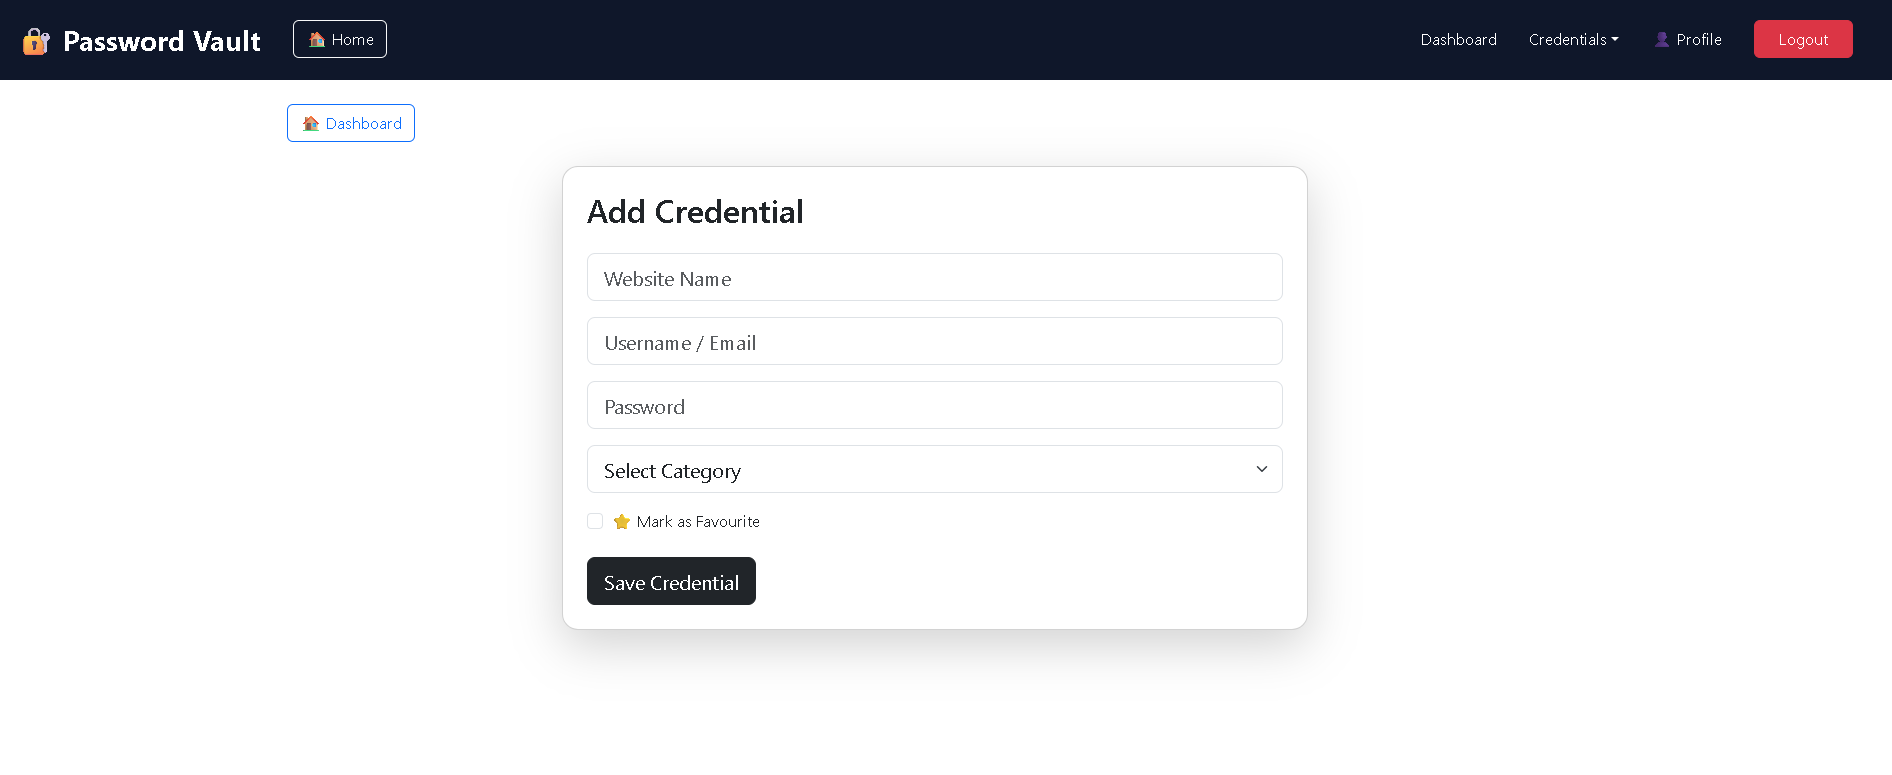
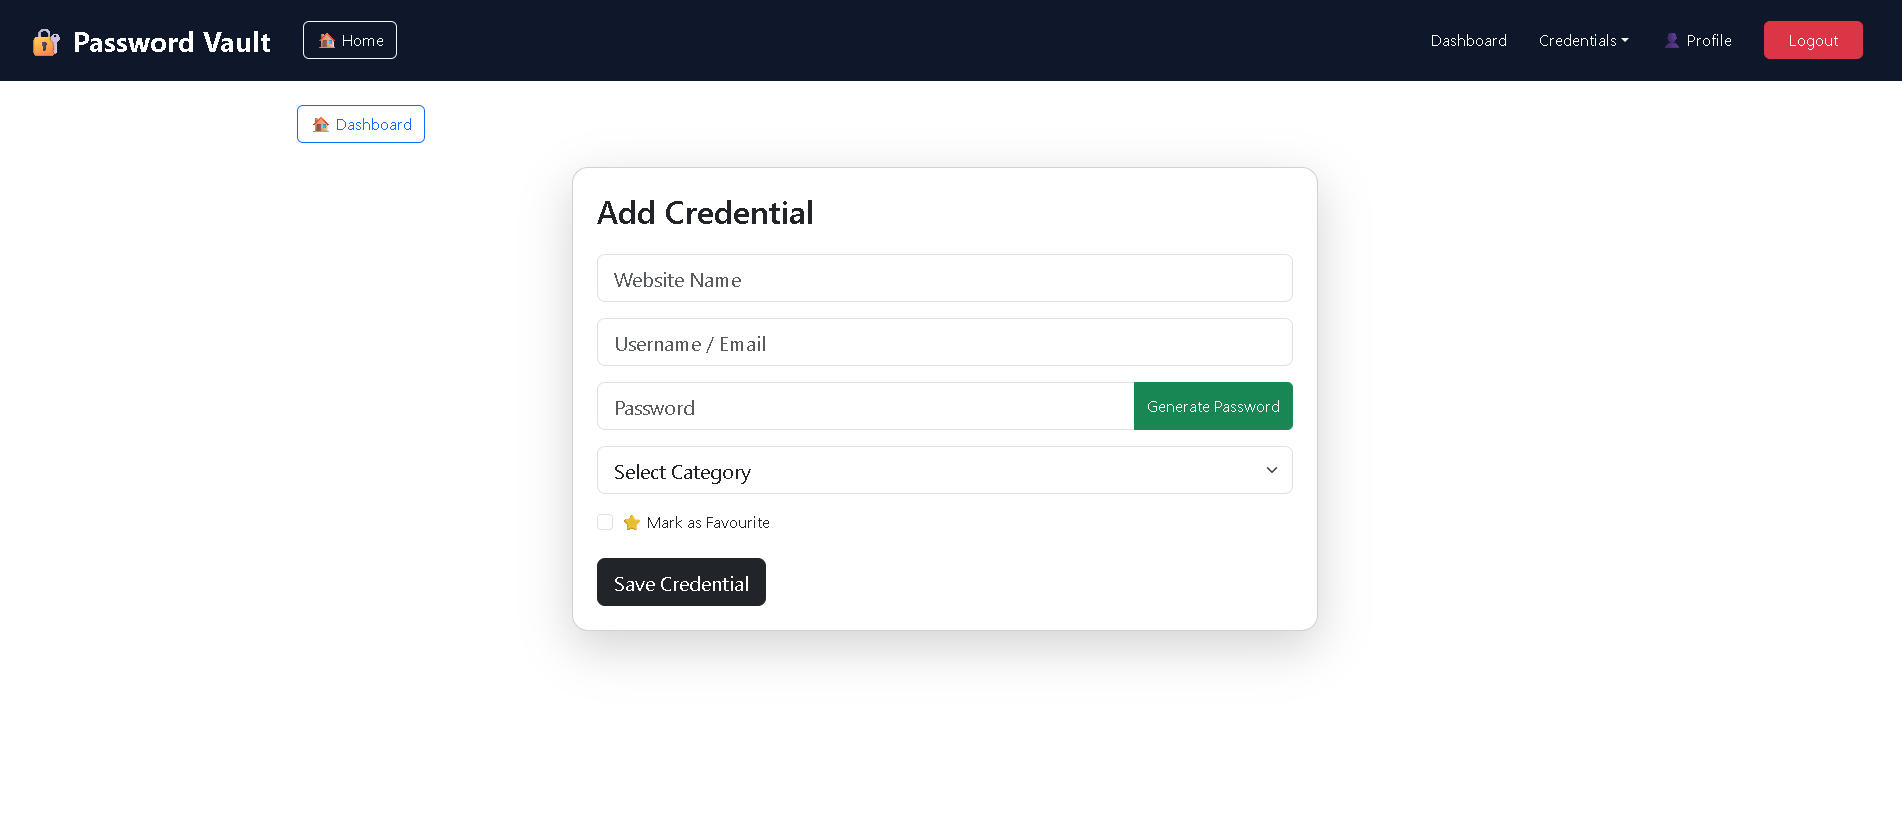
Updated README and project screenshots

diff --git a/README.md b/README.md
@@ -1,4 +1,4 @@
-# SecureVault - Password Vault & Credential Management System
+ # SecureVault - Password Vault & Credential Management System
 
 SecureVault is a full-stack Password Vault application built using React, Spring Boot, and PostgreSQL. It allows users to securely store, manage, and organize their credentials with OTP-based password recovery, AES encryption, password generation, password strength checking, and secure credential sharing.
 
@@ -123,7 +123,11 @@ SecureVault
 ![Add Credential](./screenshots/AddCredentials.png)
 
 ---
+### Share Credential
 
+![Share Credential](./screenshots/sharedCredential.png)
+
+---
 ### Saved Credentials
 
 ![Credentials](./screenshots/Credentials.png)
@@ -176,4 +180,7 @@ npm run dev
 **Dhulipudi Lakshman**
 
 GitHub:  
-https://github.com/lakshmandhulipudi
+https://github.com/lakshmandhulipudi 
+
+
+
